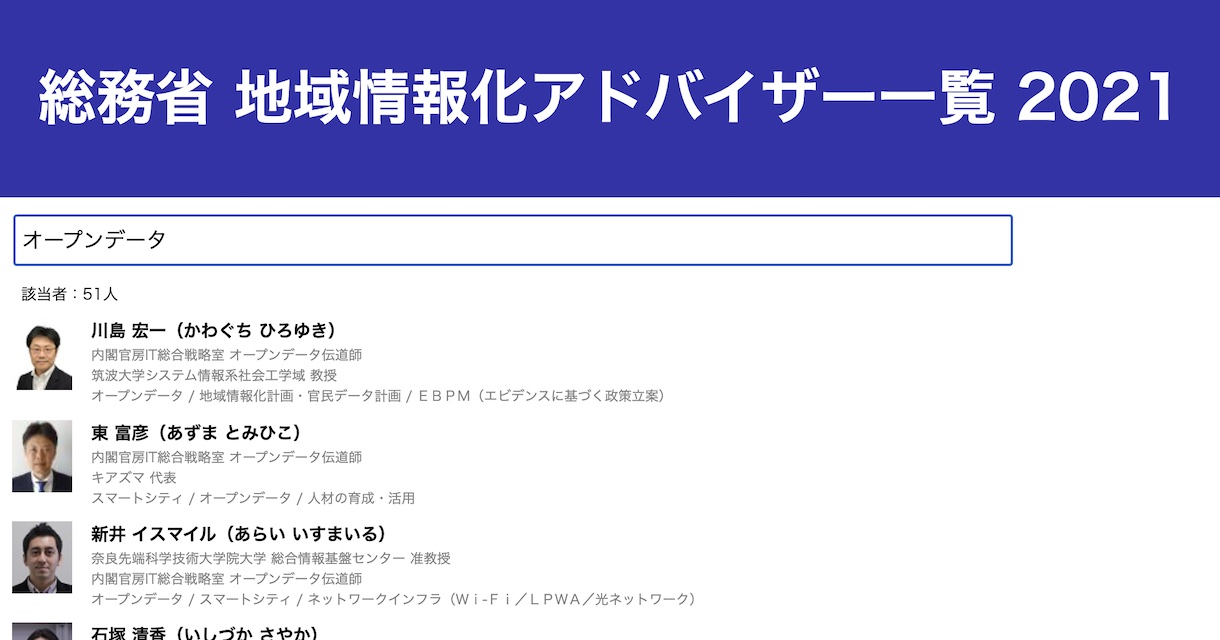
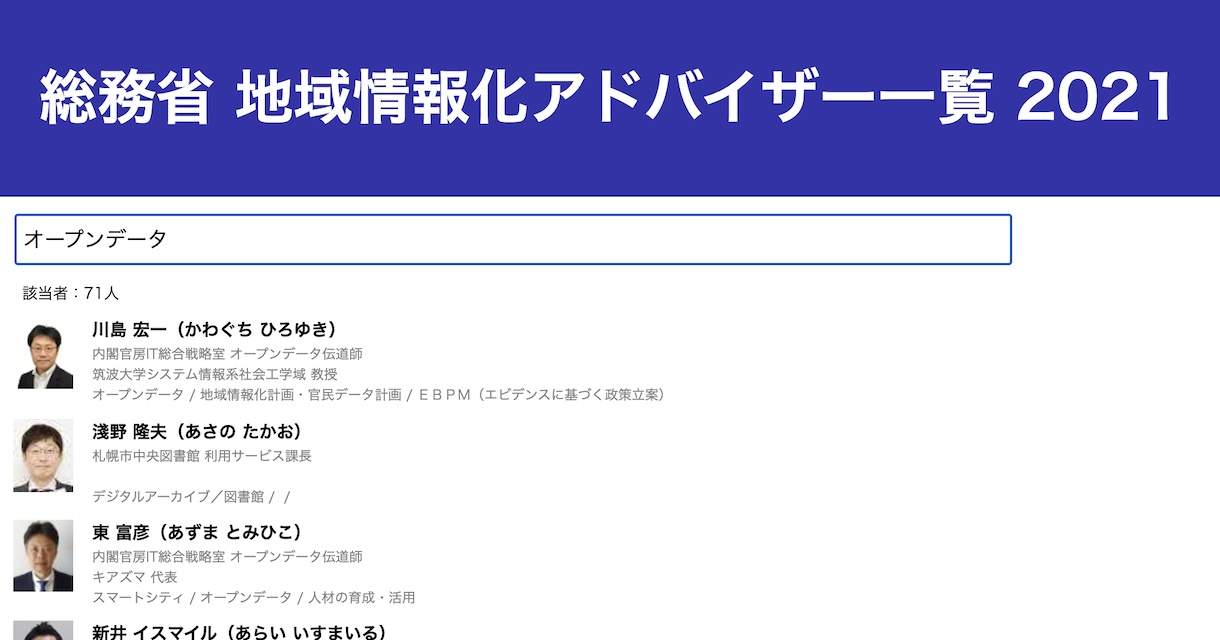
search with 2020 data

diff --git a/filter_2021.js b/filter_2021.js
@@ -2,13 +2,38 @@ import { CSV } from "https://code4sabae.github.io/js/CSV.js";
 
 window.onload = async () => {
   const csv = await CSV.fetch("ictadvisors_2021.csv");
+  const csv2020 = await CSV.fetch("ictadvisors_2020.csv");
+  const json = CSV.toJSON(csv2020);
+
+  const search2020 = () => {
+    const key = inputfilter.value;
+    const res = [];
+    for (const d of json) {
+      let flg = false;
+      for (const name in d) {
+        if (d[name].indexOf(key) >= 0) {
+          flg = true;
+          break;
+        }
+      }
+      if (flg) {
+        const idname = d["氏名"];
+        res.push(idname);
+      }
+    }
+    return res;
+  };
 
   inputfilter.onchange = inputfilter.onkeyup = () => {
+    const hitnames = search2020();
+    //console.log(hitnames);
+
     const key = inputfilter.value;
     let cnt = 0;
     for (let i = 1; i < csv.length; i++) {
       const d = csv[i];
-      let flg = false;
+      const name = d[1];
+      let flg = hitnames.indexOf(name) >= 0;
       for (const s of d) {
         if (s.indexOf(key) >= 0) {
           flg = true;
